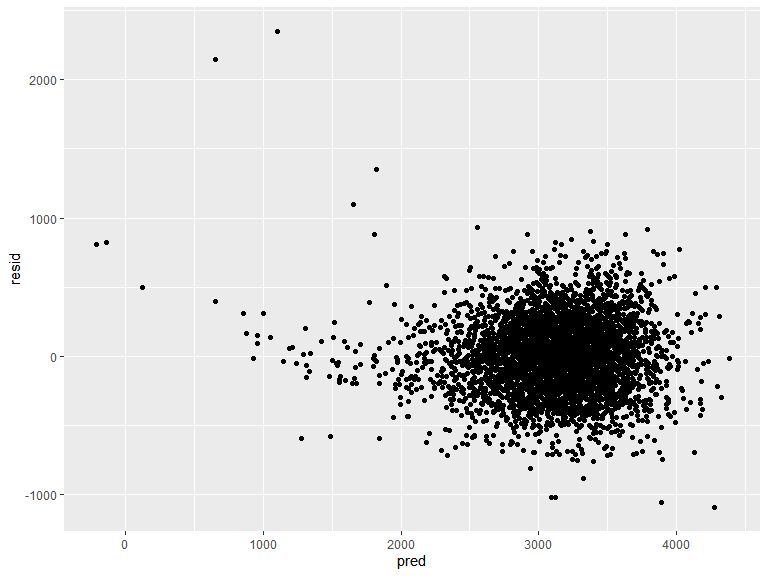
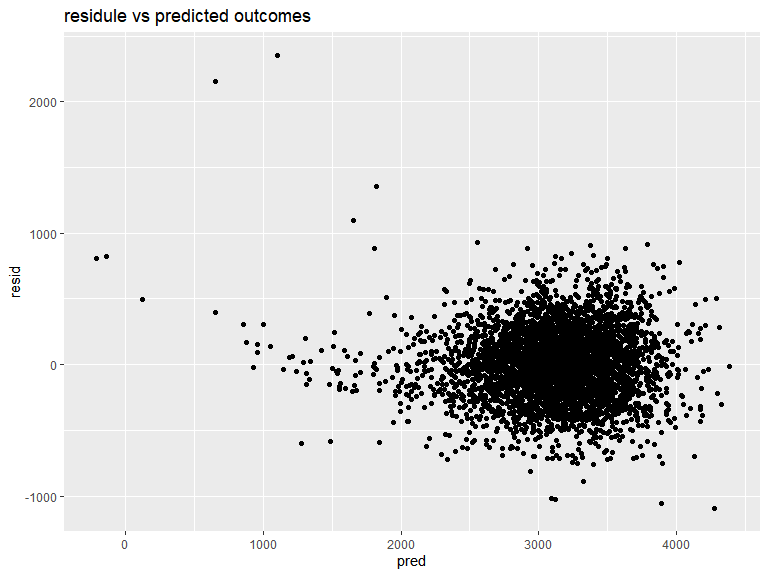
plotting and kniting the doc

diff --git a/p8105_hw6_zj2357.md b/p8105_hw6_zj2357.md
@@ -10,6 +10,7 @@ library(tidyverse)
 library(p8105.datasets)
 library(patchwork)
 library(modelr)
+library(ggridges)
 
 knitr::opts_chunk$set(
   message  = FALSE,
@@ -98,8 +99,8 @@ conf_int
     ## # A tibble: 2 × 3
     ##   variable lower_CI higher_CI
     ##   <chr>       <dbl>     <dbl>
-    ## 1 beta_sq     7.18      7.75 
-    ## 2 rsq         0.895     0.926
+    ## 1 beta_sq     7.18      7.82 
+    ## 2 rsq         0.894     0.929
 
 # Problem 2
 
@@ -218,170 +219,10 @@ birth_df =
 building my model
 
 ``` r
-my_model = step(lm(bwt ~ ., data = birth_df),direction = "both")
-```
+model_mine = step(lm(bwt ~ ., data = birth_df),direction = "both",trace = 0)
 
-    ## Start:  AIC=48717.83
-    ## bwt ~ babysex + bhead + blength + delwt + fincome + frace + gaweeks + 
-    ##     malform + menarche + mheight + momage + mrace + parity + 
-    ##     pnumlbw + pnumsga + ppbmi + ppwt + smoken + wtgain
-    ## 
-    ## 
-    ## Step:  AIC=48717.83
-    ## bwt ~ babysex + bhead + blength + delwt + fincome + frace + gaweeks + 
-    ##     malform + menarche + mheight + momage + mrace + parity + 
-    ##     pnumlbw + pnumsga + ppbmi + ppwt + smoken
-    ## 
-    ## 
-    ## Step:  AIC=48717.83
-    ## bwt ~ babysex + bhead + blength + delwt + fincome + frace + gaweeks + 
-    ##     malform + menarche + mheight + momage + mrace + parity + 
-    ##     pnumlbw + ppbmi + ppwt + smoken
-    ## 
-    ## 
-    ## Step:  AIC=48717.83
-    ## bwt ~ babysex + bhead + blength + delwt + fincome + frace + gaweeks + 
-    ##     malform + menarche + mheight + momage + mrace + parity + 
-    ##     ppbmi + ppwt + smoken
-    ## 
-    ##            Df Sum of Sq       RSS   AIC
-    ## - frace     4    124365 320848704 48712
-    ## - malform   1      1419 320725757 48716
-    ## - ppbmi     1      6346 320730684 48716
-    ## - momage    1     28661 320752999 48716
-    ## - mheight   1     66886 320791224 48717
-    ## - menarche  1    111679 320836018 48717
-    ## - ppwt      1    131132 320855470 48718
-    ## <none>                  320724338 48718
-    ## - fincome   1    193454 320917792 48718
-    ## - parity    1    413584 321137922 48721
-    ## - mrace     3    868321 321592659 48724
-    ## - babysex   1    853796 321578134 48727
-    ## - gaweeks   1   4611823 325336161 48778
-    ## - smoken    1   5076393 325800732 48784
-    ## - delwt     1   8008891 328733230 48823
-    ## - blength   1 102050296 422774634 49915
-    ## - bhead     1 106535716 427260054 49961
-    ## 
-    ## Step:  AIC=48711.51
-    ## bwt ~ babysex + bhead + blength + delwt + fincome + gaweeks + 
-    ##     malform + menarche + mheight + momage + mrace + parity + 
-    ##     ppbmi + ppwt + smoken
-    ## 
-    ##            Df Sum of Sq       RSS   AIC
-    ## - malform   1      1447 320850151 48710
-    ## - ppbmi     1      6975 320855679 48710
-    ## - momage    1     28379 320877083 48710
-    ## - mheight   1     69502 320918206 48710
-    ## - menarche  1    115708 320964411 48711
-    ## - ppwt      1    133961 320982665 48711
-    ## <none>                  320848704 48712
-    ## - fincome   1    194405 321043108 48712
-    ## - parity    1    414687 321263390 48715
-    ## + frace     4    124365 320724338 48718
-    ## - babysex   1    852133 321700837 48721
-    ## - gaweeks   1   4625208 325473911 48772
-    ## - smoken    1   5036389 325885093 48777
-    ## - delwt     1   8013099 328861802 48817
-    ## - mrace     3  13540415 334389119 48885
-    ## - blength   1 101995688 422844392 49908
-    ## - bhead     1 106662962 427511666 49956
-    ## 
-    ## Step:  AIC=48709.53
-    ## bwt ~ babysex + bhead + blength + delwt + fincome + gaweeks + 
-    ##     menarche + mheight + momage + mrace + parity + ppbmi + ppwt + 
-    ##     smoken
-    ## 
-    ##            Df Sum of Sq       RSS   AIC
-    ## - ppbmi     1      6928 320857079 48708
-    ## - momage    1     28660 320878811 48708
-    ## - mheight   1     69320 320919470 48708
-    ## - menarche  1    116027 320966177 48709
-    ## - ppwt      1    133894 320984044 48709
-    ## <none>                  320850151 48710
-    ## - fincome   1    193784 321043934 48710
-    ## + malform   1      1447 320848704 48712
-    ## - parity    1    414482 321264633 48713
-    ## + frace     4    124393 320725757 48716
-    ## - babysex   1    851279 321701430 48719
-    ## - gaweeks   1   4624003 325474154 48770
-    ## - smoken    1   5035195 325885346 48775
-    ## - delwt     1   8029079 328879230 48815
-    ## - mrace     3  13553320 334403471 48883
-    ## - blength   1 102009225 422859375 49906
-    ## - bhead     1 106675331 427525481 49954
-    ## 
-    ## Step:  AIC=48707.63
-    ## bwt ~ babysex + bhead + blength + delwt + fincome + gaweeks + 
-    ##     menarche + mheight + momage + mrace + parity + ppwt + smoken
-    ## 
-    ##            Df Sum of Sq       RSS   AIC
-    ## - momage    1     29211 320886290 48706
-    ## - menarche  1    117635 320974714 48707
-    ## <none>                  320857079 48708
-    ## - fincome   1    195199 321052278 48708
-    ## + ppbmi     1      6928 320850151 48710
-    ## + malform   1      1400 320855679 48710
-    ## - parity    1    412984 321270064 48711
-    ## + frace     4    125020 320732060 48714
-    ## - babysex   1    850020 321707099 48717
-    ## - mheight   1   1078673 321935752 48720
-    ## - ppwt      1   2934023 323791103 48745
-    ## - gaweeks   1   4621504 325478583 48768
-    ## - smoken    1   5039368 325896447 48773
-    ## - delwt     1   8024939 328882018 48813
-    ## - mrace     3  13551444 334408523 48881
-    ## - blength   1 102018559 422875638 49904
-    ## - bhead     1 106821342 427678421 49953
-    ## 
-    ## Step:  AIC=48706.02
-    ## bwt ~ babysex + bhead + blength + delwt + fincome + gaweeks + 
-    ##     menarche + mheight + mrace + parity + ppwt + smoken
-    ## 
-    ##            Df Sum of Sq       RSS   AIC
-    ## - menarche  1    100121 320986412 48705
-    ## <none>                  320886290 48706
-    ## - fincome   1    240800 321127090 48707
-    ## + momage    1     29211 320857079 48708
-    ## + ppbmi     1      7479 320878811 48708
-    ## + malform   1      1678 320884612 48708
-    ## - parity    1    431433 321317724 48710
-    ## + frace     4    124743 320761547 48712
-    ## - babysex   1    841278 321727568 48715
-    ## - mheight   1   1076739 321963029 48719
-    ## - ppwt      1   2913653 323799943 48743
-    ## - gaweeks   1   4676469 325562760 48767
-    ## - smoken    1   5045104 325931394 48772
-    ## - delwt     1   8000672 328886962 48811
-    ## - mrace     3  14667730 335554021 48894
-    ## - blength   1 101990556 422876847 49902
-    ## - bhead     1 106864308 427750598 49952
-    ## 
-    ## Step:  AIC=48705.38
-    ## bwt ~ babysex + bhead + blength + delwt + fincome + gaweeks + 
-    ##     mheight + mrace + parity + ppwt + smoken
-    ## 
-    ##            Df Sum of Sq       RSS   AIC
-    ## <none>                  320986412 48705
-    ## + menarche  1    100121 320886290 48706
-    ## - fincome   1    245637 321232048 48707
-    ## + momage    1     11698 320974714 48707
-    ## + ppbmi     1      8823 320977589 48707
-    ## + malform   1      1884 320984528 48707
-    ## - parity    1    422770 321409181 48709
-    ## + frace     4    128726 320857686 48712
-    ## - babysex   1    846134 321832545 48715
-    ## - mheight   1   1012240 321998651 48717
-    ## - ppwt      1   2907049 323893461 48743
-    ## - gaweeks   1   4662501 325648912 48766
-    ## - smoken    1   5073849 326060260 48771
-    ## - delwt     1   8137459 329123871 48812
-    ## - mrace     3  14683609 335670021 48894
-    ## - blength   1 102191779 423178191 49903
-    ## - bhead     1 106779754 427766166 49950
-
-``` r
-formula(my_model)
+formula_mine=formula(model_mine)
+formula_mine
 ```
 
     ## bwt ~ babysex + bhead + blength + delwt + fincome + gaweeks + 
@@ -391,10 +232,11 @@ plotting
 
 ``` r
 birth_df %>%
-  add_predictions(my_model) %>%
-  add_residuals(my_model) %>%
+  add_predictions(model_mine) %>%
+  add_residuals(model_mine) %>%
   ggplot(aes(x=pred,y=resid)) +
-  geom_point()
+  geom_point() +
+  labs(title = "residule vs predicted outcomes")
 ```
 
 <img src="p8105_hw6_zj2357_files/figure-gfm/unnamed-chunk-11-1.png" width="90%" />
@@ -405,3 +247,42 @@ other models
 model_1 = lm(bwt ~ blength+ gaweeks,data = birth_df)
 model_2 = lm(bwt ~ (bhead+ blength +babysex)^3,data = birth_df)
 ```
+
+cross validation
+
+``` r
+cv_df = 
+  crossv_kfold(birth_df, k=10) %>%
+  mutate(
+    train = map(train, as_tibble),
+    test = map(test, as_tibble)
+  ) %>%
+  mutate(
+    mod_mine = map(train, ~lm(formula_mine,data = .x)),
+    mod_1 = map(train, ~lm(bwt ~ blength+ gaweeks,data = .x)),
+    mod_2 = map(train, ~lm(bwt ~ (bhead+ blength +babysex)^3,data = .x))
+  ) %>%
+  mutate(
+    rmse_mine = map2_dbl(mod_mine, test, ~rmse(model=.x,data=.y)),
+    rmse_1 = map2_dbl(mod_1, test, ~rmse(model=.x,data=.y)),
+    rmse_2 = map2_dbl(mod_2, test, ~rmse(model=.x,data=.y)),
+  )
+```
+
+ploting
+
+``` r
+cv_df %>%
+  select(.id,rmse_mine,rmse_1,rmse_2) %>%
+  pivot_longer(
+    rmse_mine:rmse_2,
+    names_to = "model",
+    names_prefix = "rmse_",
+    values_to = "rmse"
+  ) %>%
+  ggplot(aes(x=rmse,y=model,fill=model)) +
+  geom_density_ridges() +
+  labs(title = "distribution of rmse  under  different model")
+```
+
+<img src="p8105_hw6_zj2357_files/figure-gfm/unnamed-chunk-14-1.png" width="90%" />
